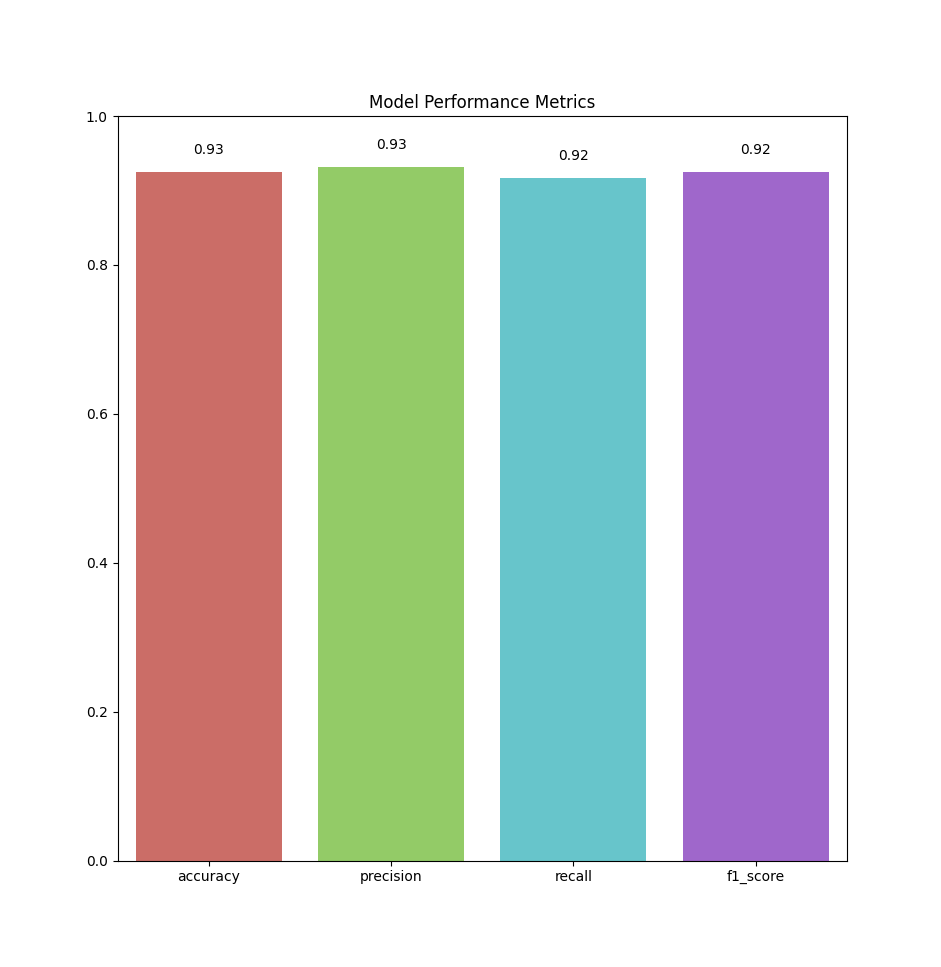
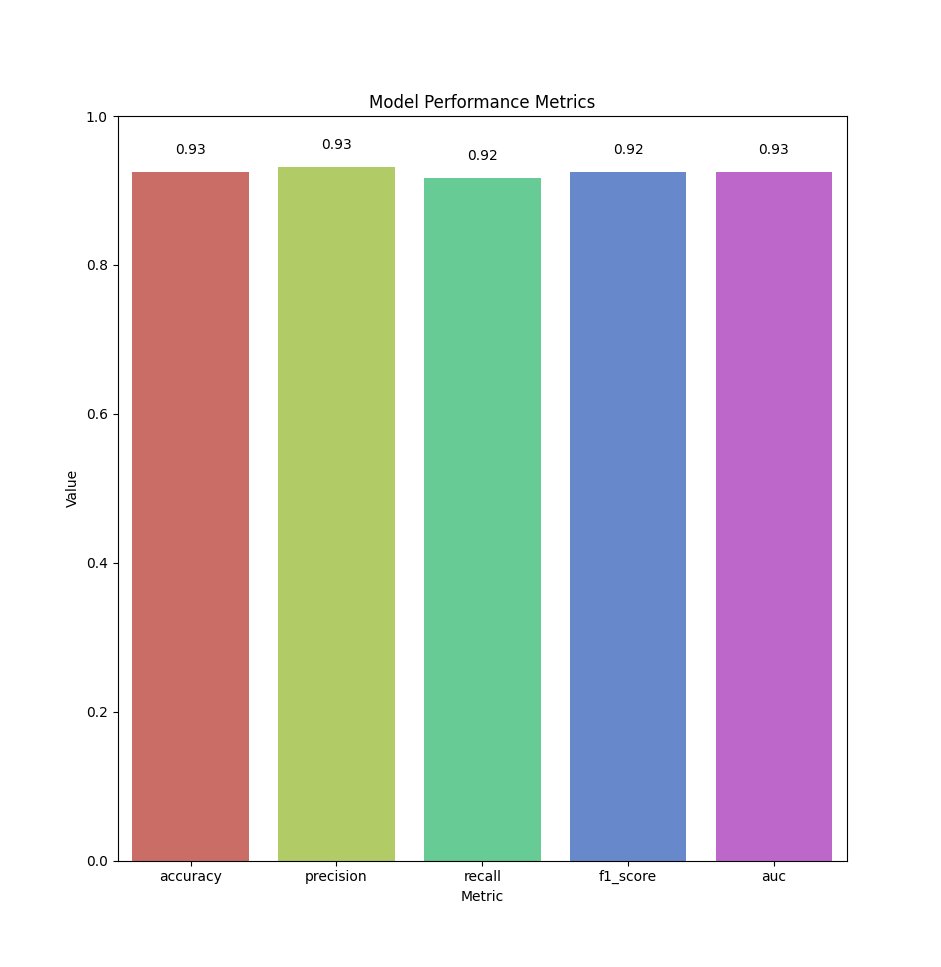
feat: add plot function for metric comparison

diff --git a/melanoma_detection/utils/metrics_utils.py b/melanoma_detection/utils/metrics_utils.py
@@ -37,6 +37,16 @@ def generate_plots_paper(y_true: torch.Tensor, y_pred: torch.Tensor) -> None:
     plt.legend(loc="lower right")
     plt.show()
 
+    # Plot Precision-Recall Curve
+    plt.figure(figsize=(10, 6))
+    precision, recall, _ = precision_recall_curve(y_true, y_pred_prob)
+    plt.plot(recall, precision, marker=".", label="Precision-Recall Curve")
+    plt.xlabel("Recall")
+    plt.ylabel("Precision")
+    plt.title("Precision-Recall Curve")
+    plt.legend()
+    plt.show()
+
     # 2. Confusion Matrix
     cm = confusion_matrix(y_true, y_pred)
     plt.figure(figsize=(10, 6))
@@ -48,7 +58,7 @@ def generate_plots_paper(y_true: torch.Tensor, y_pred: torch.Tensor) -> None:
 
     # 3. Metrics Plot
     plt.figure(figsize=(10, 6))
-    metric_names = ["accuracy", "precision", "recall", "f1_score"]
+    metric_names = ["accuracy", "precision", "recall", "f1_score", "auc"]
     metric_values = [metrics[name] for name in metric_names]
     # Create a DataFrame for the metrics
     data = pd.DataFrame({"Metric": metric_names, "Value": metric_values})
@@ -159,3 +169,68 @@ def plot_metrics(
     print("Validation Metrics:")
     for metric, value in metrics.items():
         print(f"{metric}: {value:.4f}")
+
+
+def plot_metrics_comparison(ours, other):
+    # Define the metrics data
+    metrics = {
+        "Model": [
+            "Ours",
+            "Ours",
+            "Ours",
+            "Ours",
+            "Ours",
+            "ResNet50",
+            "ResNet50",
+            "ResNet50",
+            "ResNet50",
+            "ResNet50",
+        ],
+        "Metric": [
+            "Accuracy",
+            "Precision",
+            "Recall",
+            "F1 Score",
+            "AUC",
+            "Accuracy",
+            "Precision",
+            "Recall",
+            "F1 Score",
+            "AUC",
+        ],
+        "Value": [
+            ours["accuracy"],
+            ours["precision"],
+            ours["recall"],
+            ours["f1_score"],
+            ours["auc"],
+            other["accuracy"],
+            other["precision"],
+            other["recall"],
+            other["f1_score"],
+            other["auc"],
+        ],
+    }
+
+    # Convert the dictionary to a DataFrame
+    df = pd.DataFrame(metrics)
+
+    plt.figure(figsize=(10, 6))
+    ax = sns.barplot(x="Metric", y="Value", hue="Model", data=df, palette="hls")
+
+    # Add the numbers on top of each bar
+    for p in ax.patches:
+        ax.annotate(
+            format(p.get_height(), ".2f"),
+            (p.get_x() + p.get_width() / 2.0, p.get_height()),
+            ha="center",
+            va="center",
+            xytext=(0, 9),
+            textcoords="offset points",
+        )
+
+    plt.legend(title="Model", loc="lower left")
+
+    plt.title("Model Performance Comparison")
+    plt.ylim(0, 1)
+    plt.show()

diff --git a/main.py b/main.py
@@ -1,0 +1,20 @@
+from melanoma_detection.utils.metrics_utils import plot_metrics_comparison
+
+
+ours = {
+    "accuracy": 0.93,
+    "precision": 0.93,
+    "recall": 0.92,
+    "f1_score": 0.92,
+    "auc": 0.93,
+}
+
+other = {
+    "accuracy": 0.95,
+    "precision": 0.93,
+    "recall": 0.96,
+    "f1_score": 0.95,
+    "auc": 0.95,
+}
+
+plot_metrics_comparison(ours, other)
